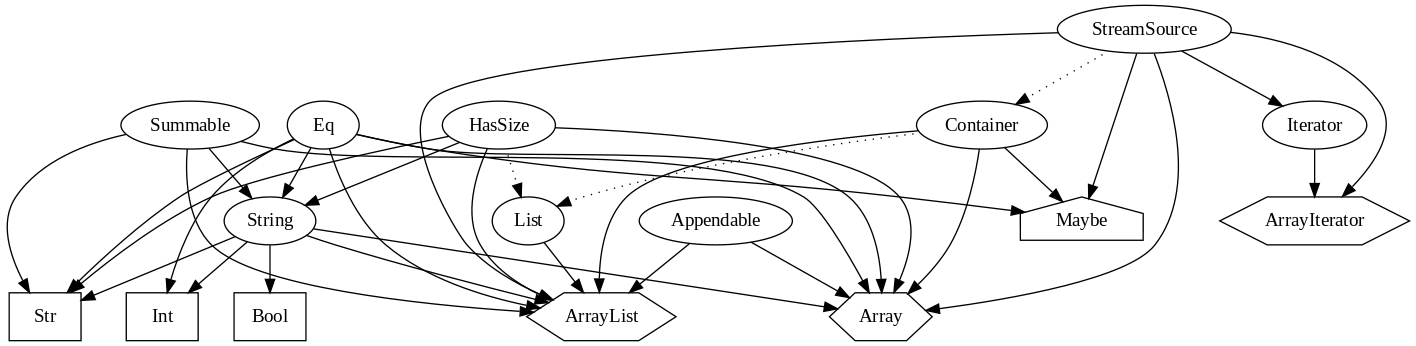
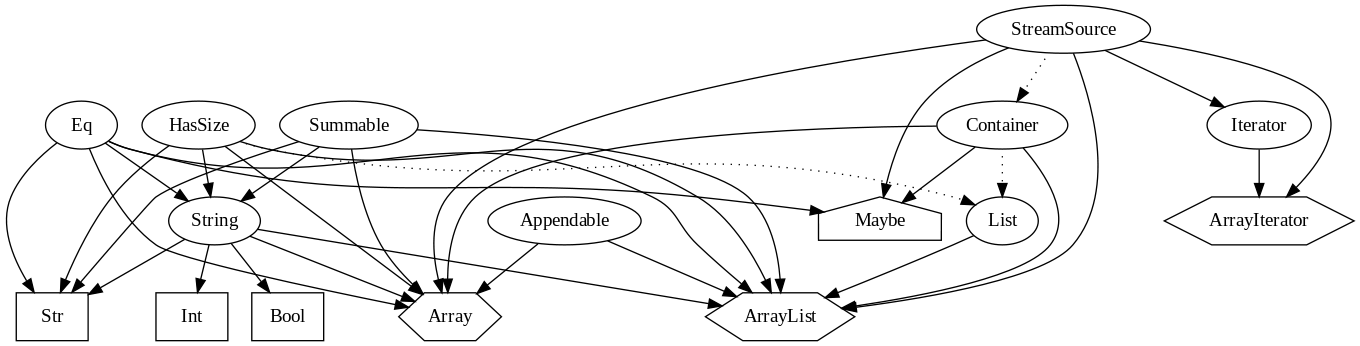
append operator "++" + documentation + fixes

diff --git a/doc/DOC.md b/doc/DOC.md
@@ -107,6 +107,9 @@ Generic methods in PScript support a feature called _static duck typing_. Simila
 Duck typing means that a method accepts arguments not based on their type but on the method names they implement. The
 term comes from the saying "if it looks like a duck, it is a duck".
 
+_The example below does not work in the current version of PScript, as the string concatenation operation has been changed_
+_from_ `+` _to_ `++`_._
+
 PScript allows calling arbitrary methods on values that have a type parameter as their type. Lets look at an example. Here
 we define an "adding printer", a printer that adds a value to the object to be printed before printing.
 
@@ -190,6 +193,17 @@ It also supports `[]` and `[]=` -methods.
 
 `T[]` is equilevelent to `Array<T>`.
 
+#### The `ArrayIterator` structure
+
+```
+struct ArrayIterator<@T> {
+	@T[] elements;
+	Int location;
+}
+```
+
+A basic implementation of `Iterator`.
+
 #### The `ArrayList` structure
 
 ```
@@ -211,6 +225,8 @@ enum Maybe<@T> {
 }
 ```
 
+Represents a value that may or may not be present. Implements both `Container` and `Eq`.
+
 ### Standard models
 
 #### The `Appendable` model
@@ -231,6 +247,8 @@ model Container<@T> {
 }
 ```
 
+All collections that have finite size should implement this model.
+
 Implementing types: `Array`, `ArrayList`, `Maybe`.
 
 #### The `HasSize` model
@@ -241,14 +259,25 @@ model HasSize {
 }
 ```
 
-Things that have size implement this model.
+All collections that have finite but variable size should implement this model.
 
 Implementing types: `Array`, `ArrayList`, `Str`, `String`
+
+#### The `Iterator` model
+
+```
+model Iterator<@T> {
+	@T next();
+	Bool hasNext();
+}
+```
+
+Implementing types: `ArrayIterator`
 
 #### The `List` model
 
 ```
-model List<@T> : HasSize {
+model List<@T> : Container<@T>, HasSize {
 	@T operator [] (Int index);
 	Void operator []= (Int index, @T value);
 	Void add(@T value);
@@ -258,17 +287,44 @@ model List<@T> : HasSize {
 
 Implementing typs: `ArrayList`
 
+#### The `StreamSource` model
+
+```
+model StreamSource<@T> {
+	Iterator<@T> iterator();
+}
+```
+
+All collections that are iterable should implement this model. Provides a starting point for pipeline calculations.
+
+Implementing types: `Array`, `ArrayList`, `ArrayIterator`, `Iterator`, `Maybe`
+
+#### The `StreamOperation` model
+
+```
+model StreamOperation<@T, @U> {
+	@U operator |(StreamSource<@T> source);
+}
+```
+
+Takes a stream of `@T` and returns `@U`, which can be either a new `StreamSource` or the final result of pipeline.
+
+`operator |` is an unique operator, as it is the right operand thats method is actually called.
+
+No implementing types yet.
+
 #### The `Summable` model
 
 ```
 model Summable<@T> {
-	$ operator +(@T t);
+	$ operator ++(@T t);
 	@T sumIdentity();
 }
 ```
 
+All types of collections that can be appended to other collections of the same type should implement this model.
+
 Although the type system does not yet support this feature, it should be noted that `@T` shall be same as `$`, eg. the implementing type.
-Notably `Int` is not extended with this model due to some problems the author is having with the type system.
 
 Implementing types: `Array`, `ArrayList`, `Str`, `String`
 
